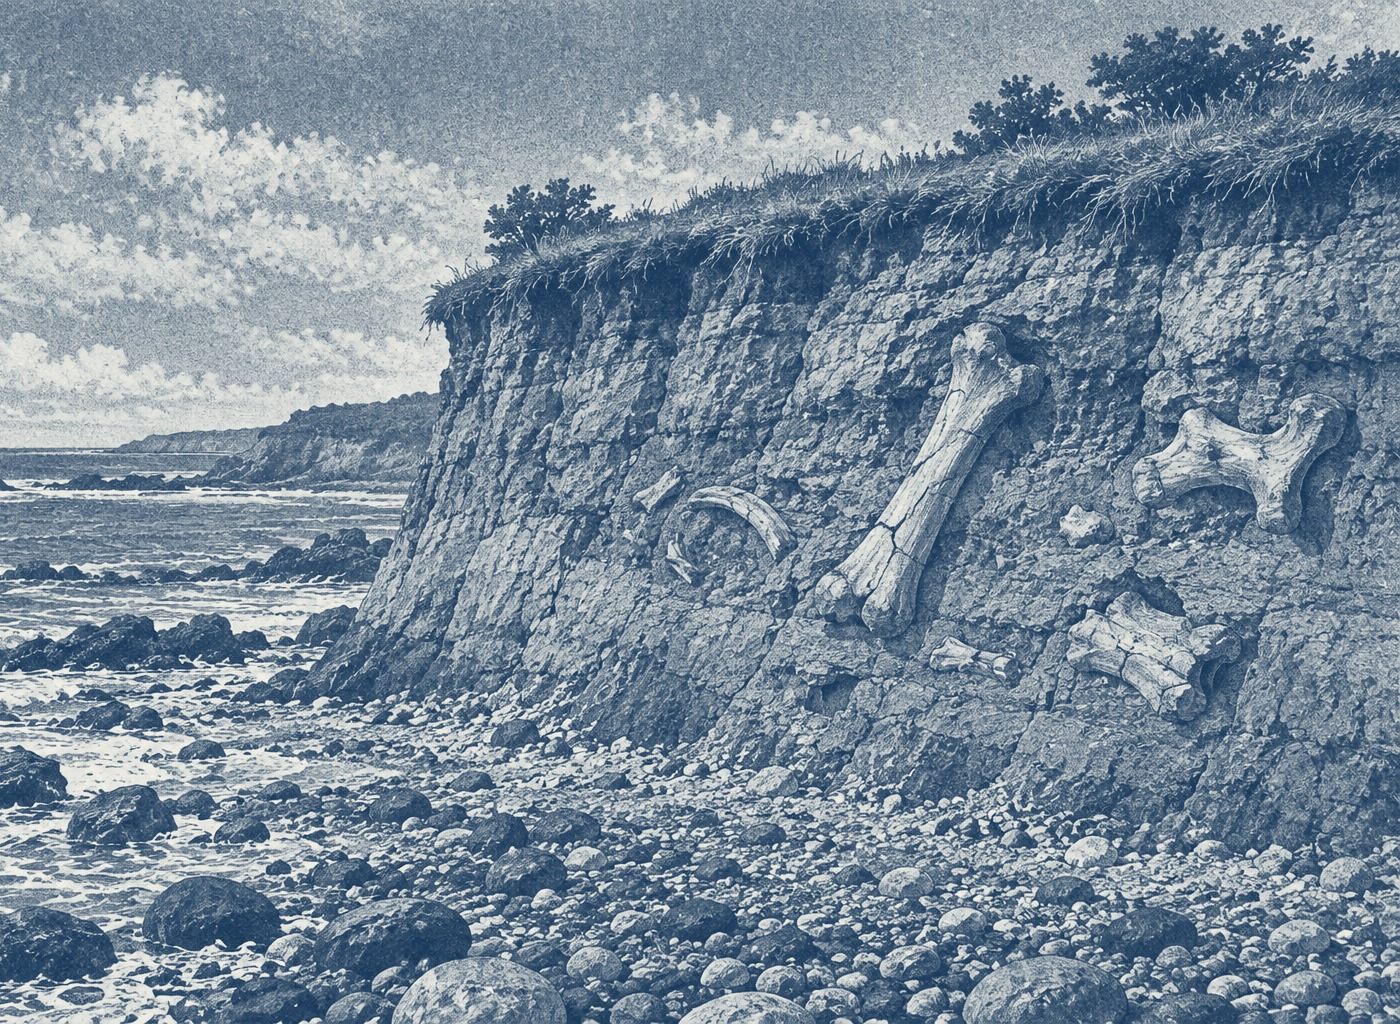
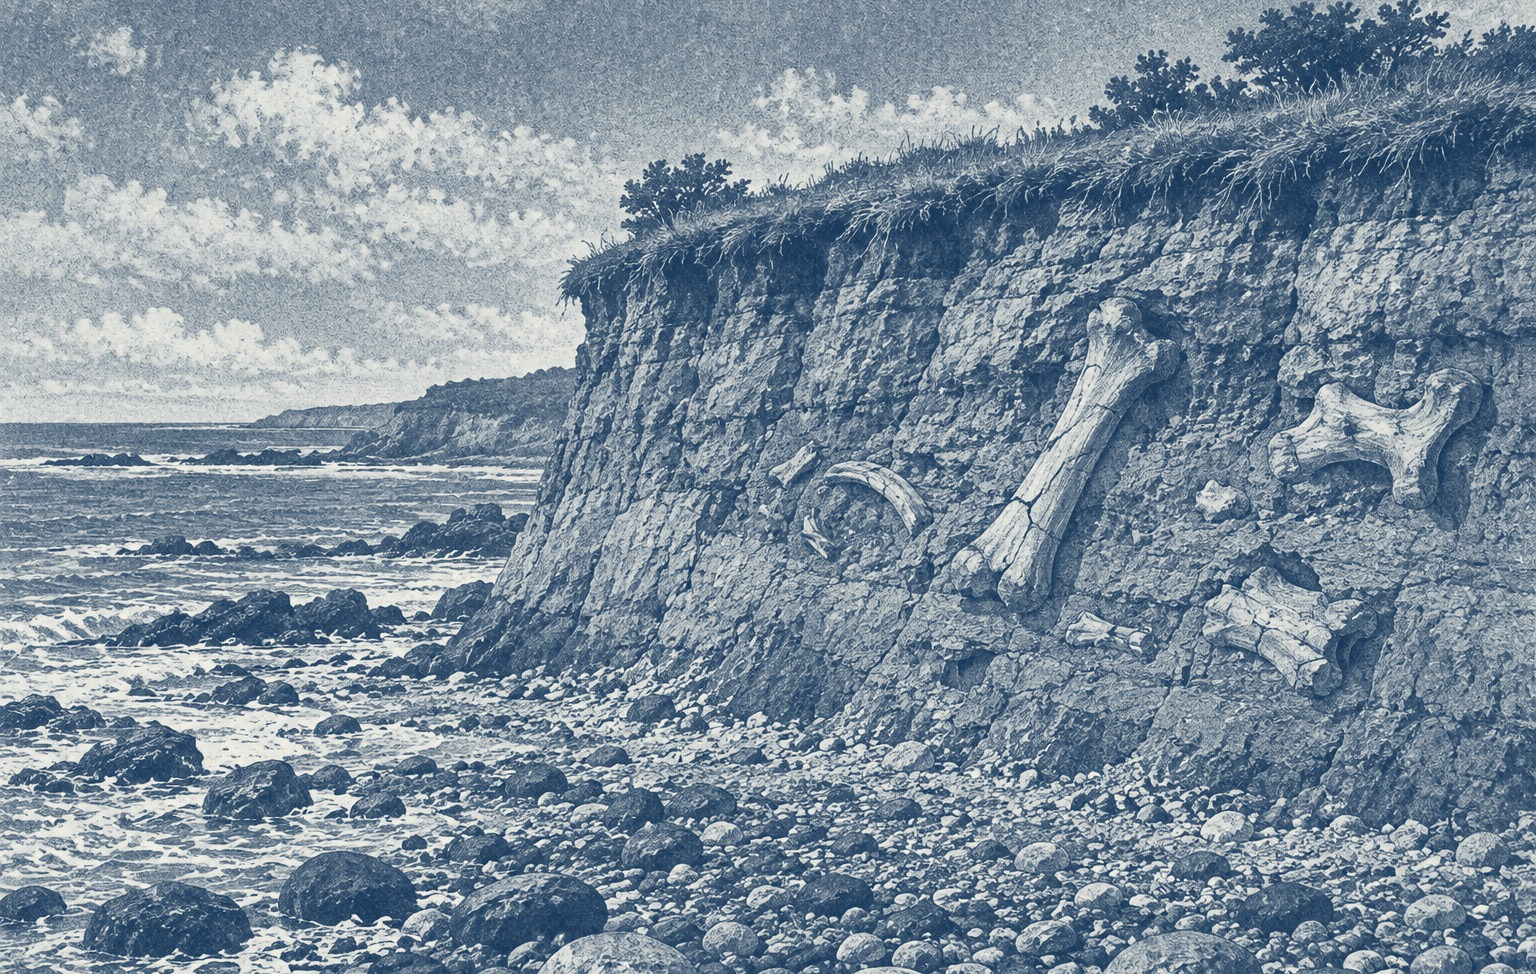
038-041: dobles recompuestas y alineadas

diff --git a/index.html b/index.html
@@ -5,23 +5,23 @@
 <meta charset="utf-8">
 <meta name="viewport" content="width=1280">
 <title>Darwin en la Argentina — libro</title>
-<link rel="stylesheet" href="styles/tokens.css?v=4856c746">
-<link rel="stylesheet" href="styles/typography.css?v=4856c746">
-<link rel="stylesheet" href="styles/grid.css?v=4856c746">
-<link rel="stylesheet" href="styles/components.css?v=4856c746">
-<link rel="stylesheet" href="styles/pages.css?v=4856c746">
-<link rel="stylesheet" href="styles/maps.css?v=4856c746">
-<link rel="stylesheet" href="styles/paradas.css?v=4856c746">
-<link rel="stylesheet" href="styles/registros.css?v=4856c746">
-<link rel="stylesheet" href="styles/tramo-03.css?v=4856c746">
-<link rel="stylesheet" href="styles/tramo-04-05.css?v=4856c746">
-<link rel="stylesheet" href="styles/tramo-05-07.css?v=4856c746">
-<link rel="stylesheet" href="styles/tramo-07-10.css?v=4856c746">
-<link rel="stylesheet" href="styles/tramo-10-15.css?v=4856c746">
-<link rel="stylesheet" href="styles/fotos.css?v=4856c746">
-<link rel="stylesheet" href="tapa/tapa.css?v=4856c746">
-<link rel="stylesheet" href="styles/medida.css?v=4856c746">
-<link rel="stylesheet" href="styles/print.css?v=4856c746">
+<link rel="stylesheet" href="styles/tokens.css?v=d82d057c">
+<link rel="stylesheet" href="styles/typography.css?v=d82d057c">
+<link rel="stylesheet" href="styles/grid.css?v=d82d057c">
+<link rel="stylesheet" href="styles/components.css?v=d82d057c">
+<link rel="stylesheet" href="styles/pages.css?v=d82d057c">
+<link rel="stylesheet" href="styles/maps.css?v=d82d057c">
+<link rel="stylesheet" href="styles/paradas.css?v=d82d057c">
+<link rel="stylesheet" href="styles/registros.css?v=d82d057c">
+<link rel="stylesheet" href="styles/tramo-03.css?v=d82d057c">
+<link rel="stylesheet" href="styles/tramo-04-05.css?v=d82d057c">
+<link rel="stylesheet" href="styles/tramo-05-07.css?v=d82d057c">
+<link rel="stylesheet" href="styles/tramo-07-10.css?v=d82d057c">
+<link rel="stylesheet" href="styles/tramo-10-15.css?v=d82d057c">
+<link rel="stylesheet" href="styles/fotos.css?v=d82d057c">
+<link rel="stylesheet" href="tapa/tapa.css?v=d82d057c">
+<link rel="stylesheet" href="styles/medida.css?v=d82d057c">
+<link rel="stylesheet" href="styles/print.css?v=d82d057c">
 </head>
 <body>
 <div class="spread"><div class="slot--empty"></div><section class="page page--cover page--right front" id="ptapa">
@@ -1144,13 +1144,14 @@
 <div class="spread"><!-- 040 · Otro yacimiento cercano — fuente: Darwin_textos_para_maquetar_v2.pdf, entrada 039.
      Cotejo con la capa de texto del escaneo (pág. 119 del libro). «CtenomySy especie» y «tucutuco^ pero» (reconocimiento)
      se componen «Ctenomys, especie» y «tucutuco, pero». Falta cotejo visual.
-     Esquema: solo la distancia; el fragmento no dice en qué dirección queda el segundo sitio. -->
+     Esquema: solo la distancia; el fragmento no dice en qué dirección queda el segundo sitio.
+     12 oct. 2026: doble 040–041 recompuesta en dos bandas (texto + imagen arriba; esquema + nota ED desde la línea 21). -->
 <section class="page page--left" id="p040" data-page="040" data-section="05 Bahía Blanca / Punta Alta" lang="es">
   <div class="page__box">
     <h1 class="p040__title t-pagetitle">Otro yacimiento cercano</h1>
     <p class="p040__text t-darwin body">A la distancia de unos 50 kilómetros de Punta Alta, en un cantil de tierra roja, hallé varios fragmentos de huesos, algunos de gran tamaño. Entre ellos había los dientes de un roedor de tamaño y forma muy parecidos al capybara, cuyos hábitos se han descrito, y, por lo tanto, según todas las probabilidades, un animal acuático. También se encontraba en ese lugar parte de la cabeza de un <i>Ctenomys</i>, especie que es distinta del tucutuco, pero muy parecida a él en general. La tierra roja, semejante a la de las Pampas, en que dichos restos estaban empotrados contiene, según el profesor Ehrenberg, ocho animálculos infusorios de agua dulce y uno de agua salada; por tanto, probablemente es un depósito de estuario.</p>
 
-    <svg class="p040__dist diagram" viewBox="0 0 92.34 31.5" aria-hidden="true">
+    <svg class="p040__dist diagram" viewBox="0 6 92.34 22.5" aria-hidden="true">
       <path class="diagram__path" d="M8 14H84"/>
       <path class="diagram__tick" d="M8 8V10.5M84 8V10.5M8 9.2H30M62 9.2H84"/>
       <g class="route__dot"><circle cx="8" cy="14" r="1.6"/><circle cx="84" cy="14" r="1.6"/></g>
@@ -1165,23 +1166,24 @@
 </section>
 <!-- 041 · Leer el estrato — fuente: Darwin_textos_para_maquetar_v2.pdf, entrada 040.
      Cotejo con la capa de texto del escaneo (págs. 119–120 del libro): coincide.
-     Esquema: 23 puntos = 23 especies de conchas (13 recientes, 4 relacionadas; las 6 restantes salen por resta). -->
+     Esquema: 23 puntos = 23 especies de conchas (13 recientes, 4 relacionadas; las 6 restantes salen por resta).
+     12 oct. 2026: el corte crece hasta la línea 19 (como la imagen de 040); las conchas y la nota ED bajan a la línea 21. -->
 <section class="page page--right" id="p041" data-page="041" data-section="05 Bahía Blanca / Punta Alta" lang="es">
   <div class="page__box">
     <h1 class="p041__title t-pagetitle">Leer el estrato</h1>
     <p class="p041__text t-darwin body">Los restos de Punta Alta estaban sepultados en grava estratificada y cieno rojizo exactamente igual al que el mar podía acumular en un banco somero. Con ellos había 23 especies de conchas, de las que 13 son recientes y otras cuatro están íntimamente relacionadas con las formas recientes. Sin embargo, como las especies modernas estaban encastradas en número casi proporcional a los que ahora viven en la bahía, creo que apenas cabe dudar que esta acumulación pertenece a una época del período terciario, muy reciente.</p>
 
-    <svg class="p041__section diagram" viewBox="0 0 92.34 36" aria-hidden="true">
+    <svg class="p041__section diagram" viewBox="0 0 92.34 58.5" aria-hidden="true">
       <defs>
         <pattern id="p040-grava" width="2.4" height="2.4" patternUnits="userSpaceOnUse"><circle cx="0.7" cy="0.8" r="0.38" class="diagram__dot"/><circle cx="1.9" cy="1.9" r="0.3" class="diagram__dot"/></pattern>
         <pattern id="p040-cieno" width="6" height="2.6" patternUnits="userSpaceOnUse"><path d="M0 1.3H6" class="diagram__hatch"/></pattern>
       </defs>
-      <rect x="0.15" y="0.15" width="46" height="12" fill="url(#p040-grava)"/>
-      <rect x="0.15" y="12.15" width="46" height="12" fill="url(#p040-cieno)"/>
-      <rect x="0.15" y="24.15" width="46" height="11.7" fill="url(#p040-grava)"/>
-      <path class="diagram__line" d="M0.15 0.15H46.15V35.85H0.15ZM0.15 12.15H46.15M0.15 24.15H46.15"/>
-      <path class="diagram__tick" d="M47.5 6H52M47.5 18H52M47.5 30H52"/>
-      <g class="diagram__label diagram__label--strong"><text x="53.5" y="6.9">Grava estratificada</text><text x="53.5" y="18.9">Cieno rojizo</text><text x="53.5" y="30.9">Grava estratificada</text></g>
+      <rect x="0.15" y="0.15" width="46" height="19.4" fill="url(#p040-grava)"/>
+      <rect x="0.15" y="19.55" width="46" height="19.4" fill="url(#p040-cieno)"/>
+      <rect x="0.15" y="38.95" width="46" height="19.4" fill="url(#p040-grava)"/>
+      <path class="diagram__line" d="M0.15 0.15H46.15V58.35H0.15ZM0.15 19.55H46.15M0.15 38.95H46.15"/>
+      <path class="diagram__tick" d="M47.5 9.8H52M47.5 29.2H52M47.5 48.6H52"/>
+      <g class="diagram__label diagram__label--strong"><text x="53.5" y="10.7">Grava estratificada</text><text x="53.5" y="30.1">Cieno rojizo</text><text x="53.5" y="49.5">Grava estratificada</text></g>
     </svg>
 
     <svg class="p041__shells diagram" viewBox="0 0 92.34 22.5" aria-hidden="true">

diff --git a/pages/041.html b/pages/041.html
@@ -1,22 +1,23 @@
 <!-- 041 · Leer el estrato — fuente: Darwin_textos_para_maquetar_v2.pdf, entrada 040.
      Cotejo con la capa de texto del escaneo (págs. 119–120 del libro): coincide.
-     Esquema: 23 puntos = 23 especies de conchas (13 recientes, 4 relacionadas; las 6 restantes salen por resta). -->
+     Esquema: 23 puntos = 23 especies de conchas (13 recientes, 4 relacionadas; las 6 restantes salen por resta).
+     12 oct. 2026: el corte crece hasta la línea 19 (como la imagen de 040); las conchas y la nota ED bajan a la línea 21. -->
 <section class="page" data-page="041" data-section="05 Bahía Blanca / Punta Alta" lang="es">
   <div class="page__box">
     <h1 class="p041__title t-pagetitle">Leer el estrato</h1>
     <p class="p041__text t-darwin body">Los restos de Punta Alta estaban sepultados en grava estratificada y cieno rojizo exactamente igual al que el mar podía acumular en un banco somero. Con ellos había 23 especies de conchas, de las que 13 son recientes y otras cuatro están íntimamente relacionadas con las formas recientes. Sin embargo, como las especies modernas estaban encastradas en número casi proporcional a los que ahora viven en la bahía, creo que apenas cabe dudar que esta acumulación pertenece a una época del período terciario, muy reciente.</p>
 
-    <svg class="p041__section diagram" viewBox="0 0 92.34 36" aria-hidden="true">
+    <svg class="p041__section diagram" viewBox="0 0 92.34 58.5" aria-hidden="true">
       <defs>
         <pattern id="p040-grava" width="2.4" height="2.4" patternUnits="userSpaceOnUse"><circle cx="0.7" cy="0.8" r="0.38" class="diagram__dot"/><circle cx="1.9" cy="1.9" r="0.3" class="diagram__dot"/></pattern>
         <pattern id="p040-cieno" width="6" height="2.6" patternUnits="userSpaceOnUse"><path d="M0 1.3H6" class="diagram__hatch"/></pattern>
       </defs>
-      <rect x="0.15" y="0.15" width="46" height="12" fill="url(#p040-grava)"/>
-      <rect x="0.15" y="12.15" width="46" height="12" fill="url(#p040-cieno)"/>
-      <rect x="0.15" y="24.15" width="46" height="11.7" fill="url(#p040-grava)"/>
-      <path class="diagram__line" d="M0.15 0.15H46.15V35.85H0.15ZM0.15 12.15H46.15M0.15 24.15H46.15"/>
-      <path class="diagram__tick" d="M47.5 6H52M47.5 18H52M47.5 30H52"/>
-      <g class="diagram__label diagram__label--strong"><text x="53.5" y="6.9">Grava estratificada</text><text x="53.5" y="18.9">Cieno rojizo</text><text x="53.5" y="30.9">Grava estratificada</text></g>
+      <rect x="0.15" y="0.15" width="46" height="19.4" fill="url(#p040-grava)"/>
+      <rect x="0.15" y="19.55" width="46" height="19.4" fill="url(#p040-cieno)"/>
+      <rect x="0.15" y="38.95" width="46" height="19.4" fill="url(#p040-grava)"/>
+      <path class="diagram__line" d="M0.15 0.15H46.15V58.35H0.15ZM0.15 19.55H46.15M0.15 38.95H46.15"/>
+      <path class="diagram__tick" d="M47.5 9.8H52M47.5 29.2H52M47.5 48.6H52"/>
+      <g class="diagram__label diagram__label--strong"><text x="53.5" y="10.7">Grava estratificada</text><text x="53.5" y="30.1">Cieno rojizo</text><text x="53.5" y="49.5">Grava estratificada</text></g>
     </svg>
 
     <svg class="p041__shells diagram" viewBox="0 0 92.34 22.5" aria-hidden="true">

diff --git a/pages/040.html b/pages/040.html
@@ -1,13 +1,14 @@
 <!-- 040 · Otro yacimiento cercano — fuente: Darwin_textos_para_maquetar_v2.pdf, entrada 039.
      Cotejo con la capa de texto del escaneo (pág. 119 del libro). «CtenomySy especie» y «tucutuco^ pero» (reconocimiento)
      se componen «Ctenomys, especie» y «tucutuco, pero». Falta cotejo visual.
-     Esquema: solo la distancia; el fragmento no dice en qué dirección queda el segundo sitio. -->
+     Esquema: solo la distancia; el fragmento no dice en qué dirección queda el segundo sitio.
+     12 oct. 2026: doble 040–041 recompuesta en dos bandas (texto + imagen arriba; esquema + nota ED desde la línea 21). -->
 <section class="page" data-page="040" data-section="05 Bahía Blanca / Punta Alta" lang="es">
   <div class="page__box">
     <h1 class="p040__title t-pagetitle">Otro yacimiento cercano</h1>
     <p class="p040__text t-darwin body">A la distancia de unos 50 kilómetros de Punta Alta, en un cantil de tierra roja, hallé varios fragmentos de huesos, algunos de gran tamaño. Entre ellos había los dientes de un roedor de tamaño y forma muy parecidos al capybara, cuyos hábitos se han descrito, y, por lo tanto, según todas las probabilidades, un animal acuático. También se encontraba en ese lugar parte de la cabeza de un <i>Ctenomys</i>, especie que es distinta del tucutuco, pero muy parecida a él en general. La tierra roja, semejante a la de las Pampas, en que dichos restos estaban empotrados contiene, según el profesor Ehrenberg, ocho animálculos infusorios de agua dulce y uno de agua salada; por tanto, probablemente es un depósito de estuario.</p>
 
-    <svg class="p040__dist diagram" viewBox="0 0 92.34 31.5" aria-hidden="true">
+    <svg class="p040__dist diagram" viewBox="0 6 92.34 22.5" aria-hidden="true">
       <path class="diagram__path" d="M8 14H84"/>
       <path class="diagram__tick" d="M8 8V10.5M84 8V10.5M8 9.2H30M62 9.2H84"/>
       <g class="route__dot"><circle cx="8" cy="14" r="1.6"/><circle cx="84" cy="14" r="1.6"/></g>

diff --git a/styles/medida.css b/styles/medida.css
@@ -71,3 +71,20 @@
 .p037__visits { grid-row: 12 / 18; }
 .p037__cut { grid-row: 18 / 27; }
 .p037__caption { grid-row: 27 / 29; align-self: end; }
+
+/* ── 038–041 ── recomposición del 12 oct. 2026 (pedido de Patricio: sin huecos y con las dos páginas de cada doble
+   a la misma altura). La información de cada página no cambia. */
+/* 038: la lista va arriba en dos columnas anchas (1.º–2.º | 3.º–4.º) y la lámina, más grande, al pie;
+   centrada; termina en la línea 27, como el plano de 039, y la nota ED va en la 28, como la de 039 */
+.p038__text { grid-column: 1 / 7; grid-row: 7 / 16; column-count: 2; column-gap: var(--column-gap); column-fill: auto; orphans: 1; widows: 1; }
+.p038__text p:nth-child(3) { break-before: column; margin-top: 0; }
+.p038__image { grid-column: 1 / 7; grid-row: 16 / 28; background-size: 116mm auto; background-position: 50% 53.5%; }
+.p038__note-ed { grid-column: 1 / 7; grid-row: 28; }
+/* 040–041: arriba, texto + imagen (040) y texto + corte (041) entre las líneas 7 y 19;
+   abajo, desde la línea 21, el esquema a la izquierda y su nota ED a la derecha */
+.p040__image { grid-row: 7 / 20; }
+.p040__dist { grid-row: 21 / 26; }
+.p040__caption { grid-row: 21 / 24; align-self: start; }
+.p041__section { grid-row: 7 / 20; }
+.p041__shells { grid-column: 1 / 4; grid-row: 21 / 26; }
+.p041__caption { grid-row: 21 / 25; align-self: start; }

diff --git a/tools/fotos.py b/tools/fotos.py
@@ -27,7 +27,7 @@ FOTOS = [
     ('034', 'posta', 92.3, 85.5, 'c', .5, .45, 0),
     ('036', 'punta-alta', 210, 37, 'c', .5, .50, 0),
     ('038', 'megaterios', 92.3, 94.5, 'l', .5, .5, 0),
-    ('040', 'cantil-huesos', 92.3, 67.5, 'c', .58, .5, 0),
+    ('040', 'cantil-huesos', 92.3, 58.5, 'c', .58, .5, 0),
     ('042', 'scelidotherium', 92.3, 58.5, 'l', .5, .5, 0),
     ('044', 'megatherium', 92.3, 67.5, 'l', .5, .5, 0),
     ('045', 'llanos', 92.3, 54, 'c', .5, .5, .35),

diff --git a/BOOK_PROGRESS.md b/BOOK_PROGRESS.md
@@ -499,3 +499,4 @@ Se reemplazaron los 39 recuadros de imagen pendiente por ilustraciones generadas
 - 2026-10-12 · 033 recompuesta a pedido de Patricio, a la par de 032: texto en dos columnas anchas desde la línea 10 (como 032), perfil de dunas redibujado en franja a todo el ancho (líneas 19–26, viewBox 188 × 36) y nota ED en la línea 28, a la altura de la de 032. Cambió el HTML de 033 (solo el SVG): re-aprobada.
 - 2026-10-12 · 035 a la par de 034 (pedido de Patricio): la planta del fuerte se alarga (viewBox 92,34 × 85,5) y termina en la línea 25, como la imagen de 034; su nota ED y las notas E/ED del texto bajan al pie y cierran en la línea 27, donde termina el texto de 034. El rótulo «Muralla» ya no se sale de la caja. Cambió el HTML de 035 (solo el SVG): re-aprobada.
 - 2026-10-12 · 036–037: la franja de Punta Alta cruza la doble. Imagen nueva de ChatGPT (continuación hacia la derecha de la de 036; original en assets/images/originales/037-punta-alta.webp, la prepara tools/laminas.py con el mismo recorte que 036 → assets/images/037-punta-alta.jpg, 186 ppp). 037 recompuesta bajo la franja: título en la línea 9 (donde empieza el de 036), texto y esquemas desde la 12, nota ED cierra en la 28. Cambió el HTML de 037 (se agregó la imagen): re-aprobada. Falta sumar esta imagen a los créditos de 104.
+- 2026-10-12 · 038–041 recompuestas por encargo de Patricio (trabajo autónomo: huecos, composición y alineación entre página izquierda y derecha; misma información). 038: lista en dos columnas anchas arriba (1.º–2.º | 3.º–4.º), lámina de los esqueletos centrada y más grande al pie (116 mm de ancho, antes 90; termina en la línea 27 como el plano de 039), nota ED en la línea 28 como la de 039 (solo CSS). 039: sin cambios. 040: imagen recortada a 13 líneas (7–19, igual que el texto; tools/fotos.py), esquema de distancia desde la línea 21 (viewBox recortado arriba) y su nota ED a la derecha, a la misma altura. 041: corte de capas redibujado más alto (líneas 7–19, como la imagen de 040), conchas bajo el texto desde la línea 21 y nota ED a la derecha. Cambió el HTML de 040 y 041 (solo los SVG): re-aprobadas.
